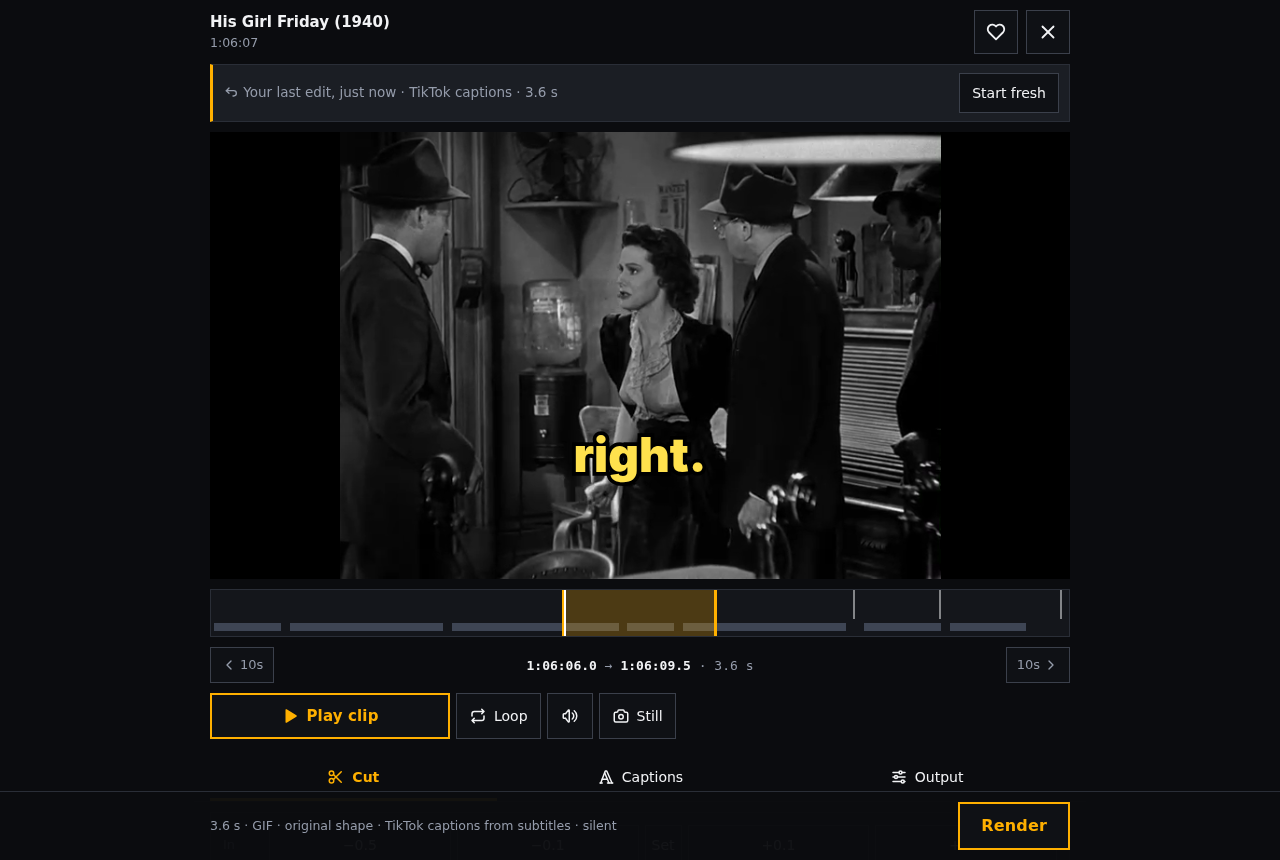
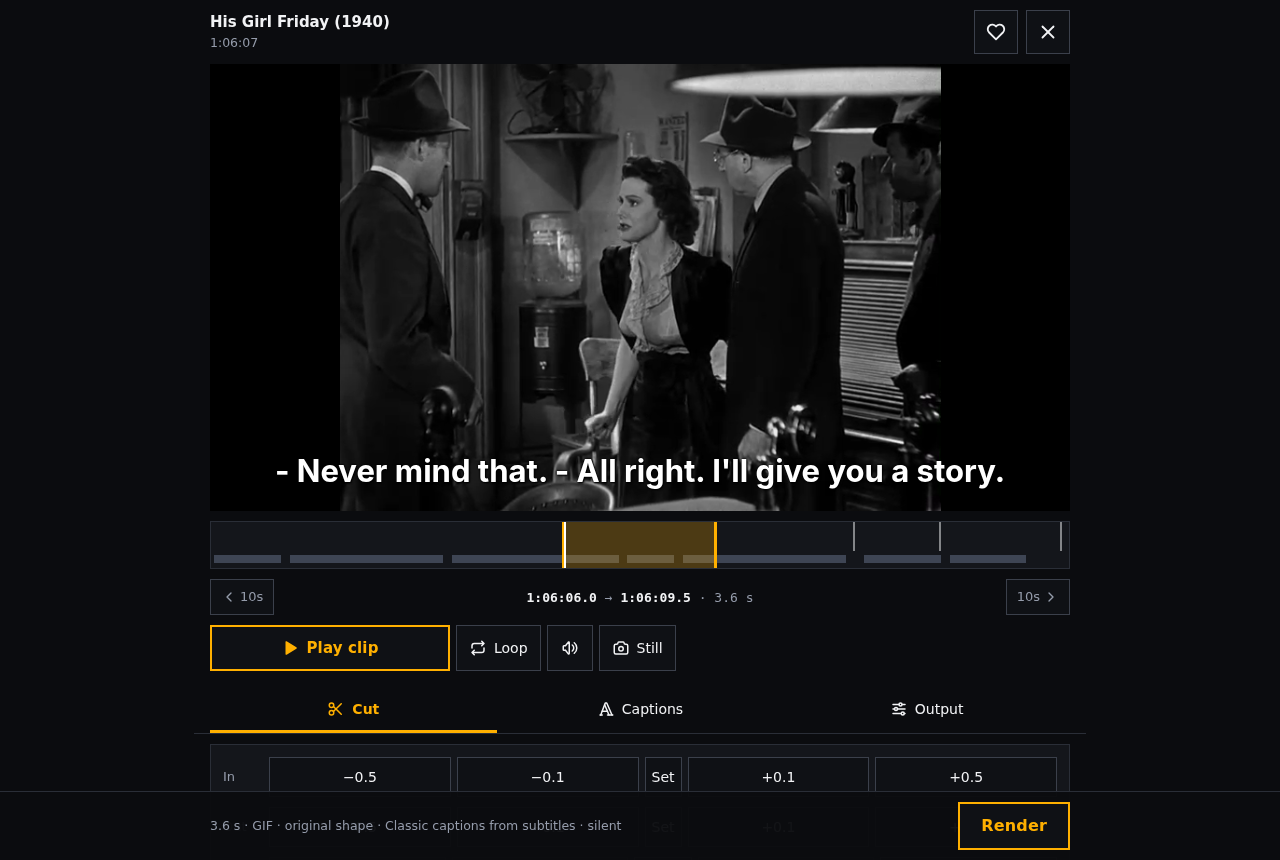
Screenshots: add the Captions tab with TikTok captions on the preview

diff --git a/docs/screenshots/take.py b/docs/screenshots/take.py
@@ -61,6 +61,9 @@ async def shoot_at(b, query, width, out):
     await shot("1-results")
     await pg.click(".card >> nth=0")
     await pg.wait_for_timeout(2500)
+    if await pg.locator("#startFresh").count():                          # a draft from an earlier run
+        await pg.click("#startFresh")
+        await pg.wait_for_timeout(1500)
     await until(pg, "!document.querySelector('#shotHint').textContent.includes('Finding')", 60)
     await pg.wait_for_timeout(1500)
     await shot("2-editor")
@@ -68,8 +71,15 @@ async def shoot_at(b, query, width, out):
         await pg.click("[data-tab=captions]")
         await pg.click("[data-opt=look] .chip:nth-child(2)")
         await pg.click("#sttGo")
-        await until(pg, "document.querySelector('#sttHint').textContent.startsWith('Done')", 120)
-        await shot("3-captions")
+        await pg.wait_for_timeout(1000)
+        await until(pg, "!document.querySelector('#sttGo').disabled && "
+                        "document.querySelector('#sttHint').textContent.startsWith('Done')", 120)
+        await pg.evaluate("seekTo(ed.inMs + 1600)")                     # mid-line, so a word is lit
+        await pg.wait_for_timeout(1200)
+        await pg.evaluate("document.querySelector('.stage').scrollIntoView({block:'start'}); drawOverlay()")
+        await pg.wait_for_timeout(400)
+        await shot("3-captions")                                        # preview with captions over the Look row
+        await pg.evaluate("document.querySelector('#sheet').scrollTop = 0")
         await pg.click("[data-tab=output]")
         await pg.click("[data-opt=format] .chip:nth-child(3)")
         await pg.click("#render")

diff --git a/docs/screenshots/README.md b/docs/screenshots/README.md
@@ -5,9 +5,10 @@ titles from a real library can appear. [`take.py`](take.py) builds that index an
 shots (steps in its docstring). The files here are composed from its output with ffmpeg:
 
 ```bash
-# phone.png: results, editor and finished GIF side by side
-ffmpeg -i shots/390-1-results.png -i shots/390-2-editor.png -i shots/390-4-result.png -filter_complex \
-  "[0]scale=390:-1,pad=iw+24:ih:12:0:color=0x0b0c0f[a];[1]scale=390:-1,pad=iw+24:ih:12:0:color=0x0b0c0f[b];[2]scale=390:-1,pad=iw+24:ih:12:0:color=0x0b0c0f[c];[a][b][c]hstack=3" phone.png
+# phone.png: results, editor, Captions tab and finished GIF side by side
+P="scale=390:-1,pad=iw+24:ih:12:0:color=0x0b0c0f"
+ffmpeg -i shots/390-1-results.png -i shots/390-2-editor.png -i shots/390-3-captions.png -i shots/390-4-result.png \
+  -filter_complex "[0]$P[a];[1]$P[b];[2]$P[c];[3]$P[d];[a][b][c][d]hstack=4" phone.png
 cp shots/1280-1-results.png desktop-search.png; cp shots/1280-2-editor.png desktop-editor.png
 # clip.gif: the rendered GIF (demo-data/clips), made smaller
 ffmpeg -i demo-data/clips/<name>.gif -filter_complex \

diff --git a/README.md b/README.md
@@ -10,7 +10,7 @@ looks), pick a shape (16:9, 9:16, 1:1…) and render. Or join every hit into one
 
 It runs on the machine that has your media, next to Jellyfin, and is used from a browser.
 
-![Searching for "story" on a phone, the editor with the cut on the timeline, and the finished GIF](docs/screenshots/phone.png)
+![Searching for "story" on a phone, the editor with the cut on the timeline, the Captions tab with TikTok-style captions on the preview, and the finished GIF](docs/screenshots/phone.png)
 
 <p align="center"><img src="docs/screenshots/clip.gif" alt="A GIF made with Say the Line, with TikTok-style word-by-word captions" width="360"></p>
 
@@ -18,7 +18,7 @@ It runs on the machine that has your media, next to Jellyfin, and is used from a
 <summary>On a desktop</summary>
 
 ![Search results in a grid](docs/screenshots/desktop-search.png)
-![The editor with TikTok-style captions](docs/screenshots/desktop-editor.png)
+![The editor with the cut on the timeline](docs/screenshots/desktop-editor.png)
 
 </details>
 
